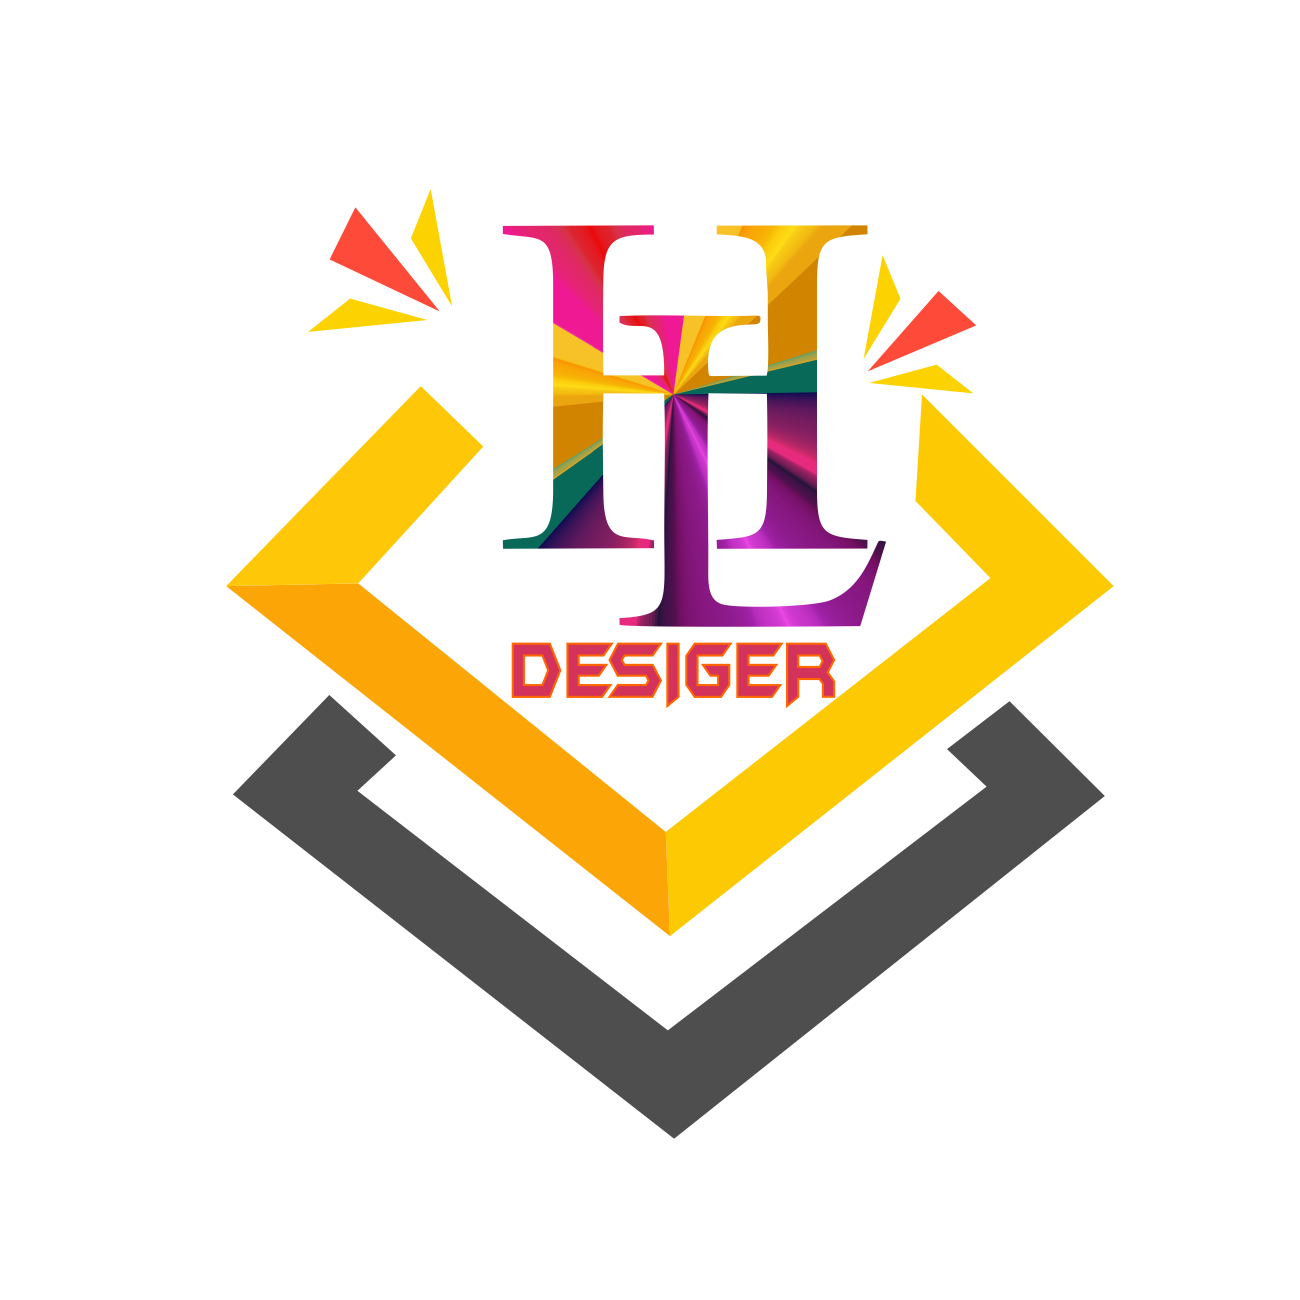
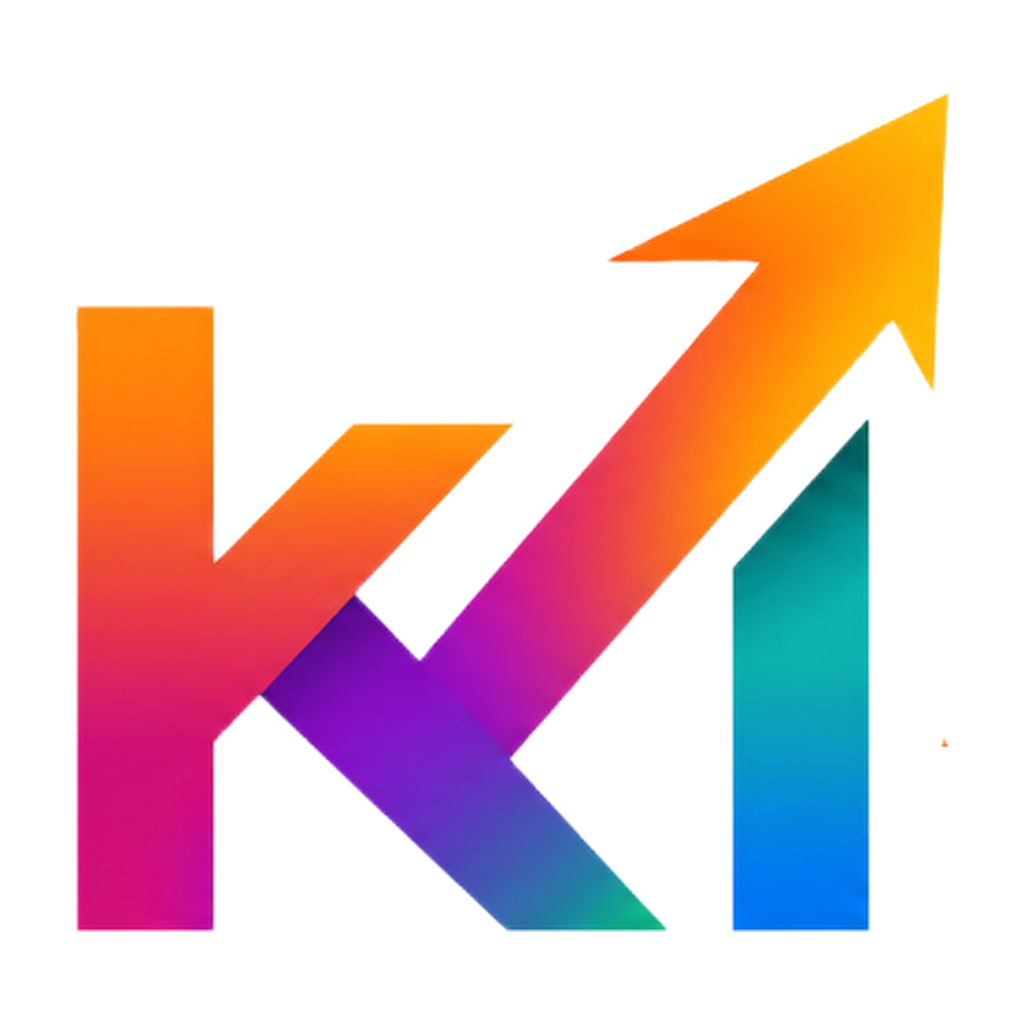
Add files via upload

diff --git a/assets/style.css b/assets/style.css
@@ -2137,3 +2137,142 @@ textarea::placeholder{
     transform-origin:left center!important;
   }
 }
+
+
+/* Footer copyright update 2026-07-17 */
+.premium-footer-bottom{padding:16px 0!important;font-size:11px!important}
+.premium-footer-bottom>.container{display:flex!important;align-items:center!important;justify-content:space-between!important;gap:24px!important;text-align:left!important}
+.footer-copyright-text{display:flex;flex-direction:column;gap:4px;line-height:1.45}
+.footer-copyright-text p{margin:0;color:#8e99ad;font-size:11px}
+.footer-copyright-text strong{color:#c1cad8;font-weight:700}
+.footer-copyright-text a{color:#8e99ad;text-decoration:none}
+.footer-copyright-text a:hover,.footer-legal-links a:hover{color:#fff}
+.footer-legal-links{display:flex;align-items:center;gap:18px;flex:0 0 auto}
+.footer-legal-links a{color:#8e99ad;font-size:11px;text-decoration:none}
+@media (max-width:700px){
+  .premium-footer-bottom>.container{flex-direction:column!important;justify-content:center!important;gap:10px!important;text-align:center!important}
+  .footer-copyright-text{align-items:center}
+  .footer-copyright-text p,.footer-legal-links a{font-size:10px}
+}
+
+
+/* ============================================================
+   FOOTER BẢN QUYỀN GỌN ĐẸP — 2026-07-17
+   Chỉ thay bố cục chân trang, không đổi nội dung website.
+   ============================================================ */
+.premium-footer-bottom{
+  position:relative!important;
+  isolation:isolate!important;
+  overflow:hidden!important;
+  z-index:20!important;
+  padding:0!important;
+  background:linear-gradient(180deg,#0a1528 0%,#081326 100%)!important;
+  border-top:1px solid rgba(255,255,255,.10)!important;
+  color:#9ba8bc!important;
+  text-align:center!important;
+}
+.premium-footer-bottom::before{
+  content:""!important;
+  position:absolute!important;
+  inset:0!important;
+  z-index:-1!important;
+  pointer-events:none!important;
+  background:radial-gradient(circle at 50% 0,rgba(91,201,255,.055),transparent 42%)!important;
+}
+.premium-footer-bottom>.footer-bottom-shell{
+  width:min(1180px,calc(100% - 40px))!important;
+  min-height:82px!important;
+  margin:0 auto!important;
+  padding:16px 0 18px!important;
+  display:flex!important;
+  flex-direction:column!important;
+  align-items:center!important;
+  justify-content:center!important;
+  gap:7px!important;
+  text-align:center!important;
+}
+.footer-bottom-topline{
+  display:flex!important;
+  align-items:center!important;
+  justify-content:center!important;
+  flex-wrap:wrap!important;
+  gap:10px!important;
+  color:#aab6c8!important;
+  font-family:inherit!important;
+  font-size:12px!important;
+  font-weight:400!important;
+  line-height:1.5!important;
+}
+.footer-bottom-topline>span,
+.footer-bottom-topline>a{
+  margin:0!important;
+  padding:0!important;
+}
+.footer-bottom-topline strong,
+.footer-credit-line strong{
+  color:#f1f5fb!important;
+  font-weight:700!important;
+}
+.footer-bottom-topline a,
+.footer-policy-link{
+  color:#b8c4d6!important;
+  text-decoration:none!important;
+  transition:color .2s ease!important;
+}
+.footer-bottom-topline a:hover,
+.footer-policy-link:hover{
+  color:#fff!important;
+}
+.footer-bottom-divider{
+  display:block!important;
+  width:1px!important;
+  height:13px!important;
+  flex:0 0 1px!important;
+  background:rgba(255,255,255,.21)!important;
+}
+.footer-credit-line{
+  color:#74829a!important;
+  font-family:inherit!important;
+  font-size:10.5px!important;
+  line-height:1.45!important;
+  letter-spacing:.01em!important;
+}
+/* Chặn mọi dấu chấm/trang trí cũ lọt vào phần bản quyền */
+.premium-footer-bottom .footer-bottom-topline>*::before,
+.premium-footer-bottom .footer-bottom-topline>*::after,
+.premium-footer-bottom .footer-credit-line::before,
+.premium-footer-bottom .footer-credit-line::after{
+  content:none!important;
+  display:none!important;
+}
+@media(max-width:700px){
+  .premium-footer-bottom>.footer-bottom-shell{
+    width:auto!important;
+    min-height:0!important;
+    margin:0 76px 0 16px!important;
+    padding:15px 0 17px!important;
+    align-items:flex-start!important;
+    gap:6px!important;
+    text-align:left!important;
+  }
+  .footer-bottom-topline{
+    align-items:flex-start!important;
+    justify-content:flex-start!important;
+    flex-direction:column!important;
+    flex-wrap:nowrap!important;
+    gap:2px!important;
+    text-align:left!important;
+    font-size:10.5px!important;
+    line-height:1.45!important;
+  }
+  .footer-bottom-divider{display:none!important}
+  .footer-credit-line{
+    max-width:100%!important;
+    text-align:left!important;
+    font-size:9.5px!important;
+    line-height:1.45!important;
+  }
+}
+@media(min-width:701px) and (max-width:980px){
+  .premium-footer-bottom>.footer-bottom-shell{width:min(860px,calc(100% - 110px))!important}
+}